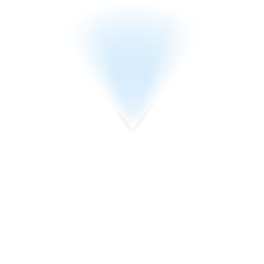
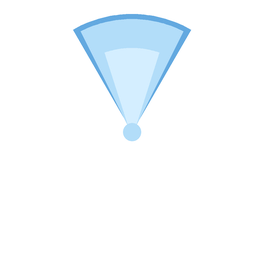
Map button: shark-finder locator (not a compass), picture badges, house chrome, hint ring with no timer; tap your panned-away shark to come back; heading beam redrawn in flat cel bands

Changed region(s): [[0.2727, 0.0303, 0.7273, 0.5455]]

diff --git a/src/components/map/FollowButton.tsx b/src/components/map/FollowButton.tsx
@@ -1,13 +1,12 @@
 import { Image } from 'expo-image';
 import { useEffect, useRef, useState, type ReactNode } from 'react';
 import { Pressable, StyleSheet, Text, View } from 'react-native';
-import Reanimated, { Easing, useAnimatedStyle, useSharedValue, withSequence, withSpring, withTiming,
+import Reanimated, { Easing, useAnimatedStyle, useSharedValue, withDelay, withRepeat, withSequence, withSpring, withTiming,
   type SharedValue } from 'react-native-reanimated';
-import Svg, { Path } from 'react-native-svg';
+import Svg, { Circle, Path } from 'react-native-svg';
 import { BRAND, SHADOW } from '../../ui';
 import type { FollowMode } from './cameraFollow';
 
-const ROSE = require('../../../assets/images/map/compass-rose.png');
 /** Panned away the button shows your own shark (its look), or Alex's Classic: "take me back to it". */
 const CLASSIC = require('../../../assets/images/map/follow-shark-classic.png');
 
@@ -16,13 +15,13 @@ export type FollowButtonState = 'away' | FollowMode;
 
 /** The words a player sees (short enough to read at a glance; tested in map-motion.test.cjs). */
 export const FOLLOW_COPY = {
-  heading: 'Map turns with you',
-  north: 'North stays up',
+  heading: 'Map spins with you',
+  north: 'Map stays still',
   away: 'Tap to find your shark',
   noCompass: 'No compass here',
-  hintTitle: 'Your compass',
-  hintBody: 'The map turns when you turn. Tap me to keep north up.',
-  hintBodyNorth: 'North stays on top. Tap me to turn the map with you.',
+  hintTitle: 'Shark finder',
+  hintBody: 'Tap me to stop the map spinning.',
+  hintBodyNorth: 'Tap me to spin the map with you.',
 } as const;
 
 type PillKey = 'heading' | 'north' | 'noCompass' | 'away';
@@ -37,8 +36,32 @@ export function shouldFlashPill(was: FollowButtonState, now: FollowButtonState):
 export function followButtonLabel(state: FollowButtonState): string {
   if (state === 'away') return 'Find your shark. The map follows you again.';
   return state === 'heading'
-    ? 'Compass: the map turns with you. Tap to keep north up.'
-    : 'Compass: north stays up. Tap to turn the map with you.';
+    ? 'Shark finder: the map spins with you. Tap to keep it still, north up.'
+    : 'Shark finder: the map stays still, north up. Tap to spin it with you.';
+}
+
+/**
+ * The button's face: a locator, not a compass (the footer already has the gold compass). A gold shark fin
+ * in a target ring; while the map turns with you, a view cone shows the way you face (up the screen).
+ * Flat fills, cel bands and navy outlines in the house style.
+ */
+function LocatorFace({ facing }: { readonly facing: boolean }) {
+  return (
+    <Svg width={44} height={44} viewBox="0 0 44 44">
+      {facing && (
+        <>
+          <Path d="M22 26 L9.5 6.5 A19 19 0 0 1 34.5 6.5 Z" fill={BRAND.skyDeep} stroke={BRAND.navy} strokeWidth={2} strokeLinejoin="round" />
+          <Path d="M22 24 L15 10.5 A13 13 0 0 1 29 10.5 Z" fill={BRAND.sky} />
+        </>
+      )}
+      <Circle cx={22} cy={28} r={11} fill={BRAND.white} stroke={BRAND.navy} strokeWidth={2.4} />
+      <Circle cx={22} cy={28} r={6.6} fill="none" stroke={BRAND.skyDeep} strokeWidth={1.8} />
+      {/* The fin: gold, a lighter cel band on its lit (left) side, a navy outline. */}
+      <Path d="M16.5 31.5 C17.5 26 20.5 21 26.5 18.5 C25 23 25.5 27.5 27.5 31.5 Z" fill={BRAND.gold} stroke={BRAND.navy} strokeWidth={2} strokeLinejoin="round" />
+      <Path d="M18.6 30 C19.4 26.4 21.4 23.2 24.2 21.4 C23.4 24.4 23.4 27.2 24.2 30 Z" fill={BRAND.goldLight} />
+      <Path d="M15 31.8 H29" stroke={BRAND.navy} strokeWidth={2.2} strokeLinecap="round" />
+    </Svg>
+  );
 }
 
 /**
@@ -75,7 +98,7 @@ export default function FollowButton({ state, bearing, onPress, reducedMotion, h
   const flashPill = (key: PillKey) => {
     setPill(key);
     if (pillTimer.current) clearTimeout(pillTimer.current);
-    pillTimer.current = setTimeout(() => setPill(null), 1800);
+    pillTimer.current = setTimeout(() => setPill(null), 2500);
   };
   useEffect(() => {
     const was = lastState.current;
@@ -85,11 +108,14 @@ export default function FollowButton({ state, bearing, onPress, reducedMotion, h
   }, [state]); // eslint-disable-line react-hooks/exhaustive-deps
   useEffect(() => { if (noCompassFlash > 0) flashPill('noCompass'); }, [noCompassFlash]); // eslint-disable-line react-hooks/exhaustive-deps
   useEffect(() => () => { if (pillTimer.current) clearTimeout(pillTimer.current); }, []);
+  // The hint stays until the first tap on the button or the map (no timer): a ring pulses round the
+  // button meanwhile, so a child who cannot read still sees "tap here".
+  const ring = useSharedValue(0);
   useEffect(() => {
-    if (!hint) return;
-    const timer = setTimeout(onHintDone, 7000);
-    return () => clearTimeout(timer);
-  }, [hint, onHintDone]);
+    if (!hint || reducedMotion) { ring.value = 0; return; }
+    ring.value = withRepeat(withSequence(withTiming(1, { duration: 900, easing: Easing.out(Easing.quad) }), withTiming(0, { duration: 0 }), withDelay(300, withTiming(0, { duration: 0 }))), -1);
+  }, [hint, reducedMotion, ring]);
+  const ringStyle = useAnimatedStyle(() => ({ opacity: ring.value > 0 ? 0.9 * (1 - ring.value) : 0, transform: [{ scale: 1 + 0.45 * ring.value }] }));
 
   // The pill fades and slides in on the UI thread, and stays mounted while it fades out.
   const [shownPill, setShownPill] = useState<PillKey | null>(null);
@@ -146,25 +172,41 @@ export default function FollowButton({ state, bearing, onPress, reducedMotion, h
         </Reanimated.View>
         </View>
       )}
+      {hint && <Reanimated.View pointerEvents="none" style={[styles.ring, ringStyle]} />}
       <Pressable onPress={tap} accessibilityRole="button" accessibilityLabel={followButtonLabel(state)} hitSlop={8}>
         <Reanimated.View style={[styles.button, state === 'north' && styles.north, state === 'away' && styles.away, buttonStyle]}>
+          <View pointerEvents="none" style={styles.gloss} />
           {state === 'away' ? (
             <Reanimated.View style={[styles.sharkBox, nudgeStyle]}>
               {awayArt ?? <Image source={CLASSIC} style={StyleSheet.absoluteFill} contentFit="contain" transition={0} />}
             </Reanimated.View>
           ) : (
-            <Reanimated.View style={[styles.rose, roseStyle]}>
-              <Image source={ROSE} style={StyleSheet.absoluteFill} contentFit="contain" transition={0} />
-            </Reanimated.View>
+            <>
+              <LocatorFace facing={state === 'heading'} />
+              {/* The red north tick rides the rim and always points at north on the map. */}
+              <Reanimated.View pointerEvents="none" style={[styles.northRing, roseStyle]}>
+                <Svg width={54} height={54} viewBox="0 0 54 54">
+                  <Path d="M27 1.5 L31.5 9.5 L22.5 9.5 Z" fill={BRAND.red} stroke={BRAND.navy} strokeWidth={1.6} strokeLinejoin="round" />
+                </Svg>
+              </Reanimated.View>
+            </>
           )}
           {state !== 'away' && (
             <Reanimated.View style={[styles.badge, state === 'north' ? styles.badgeNorth : styles.badgeHeading, badgeStyle]}>
-              {state === 'north' ? <Text style={styles.badgeN}>N</Text> : (
-                // The beam under your shark, in small: "the map follows where you face".
-                // A turning arrow: "the map turns".
+              {state === 'north' ? (
+                // A padlock: the map is locked still.
                 <Svg width={16} height={16} viewBox="0 0 16 16">
-                  <Path d="M13.2 8.6 A5.3 5.3 0 1 1 10.6 3.6" stroke={BRAND.white} strokeWidth={2.4} fill="none" strokeLinecap="round" />
-                  <Path d="M9.2 0.9 L13.6 3.4 L9.6 6.6 Z" fill={BRAND.white} />
+                  <Path d="M5 7.2 V5.2 a3 3 0 0 1 6 0 V7.2" stroke={BRAND.white} strokeWidth={2.2} fill="none" strokeLinecap="round" />
+                  <Path d="M3.2 7.2 H12.8 V14 H3.2 Z" fill={BRAND.white} stroke={BRAND.white} strokeWidth={1} strokeLinejoin="round" />
+                  <Circle cx={8} cy={10.5} r={1.3} fill={BRAND.navy} />
+                </Svg>
+              ) : (
+                // Two curved arrows chasing each other: the map spins with you.
+                <Svg width={17} height={17} viewBox="0 0 17 17">
+                  <Path d="M3 7.2 A5.6 5.6 0 0 1 12.6 4" stroke={BRAND.white} strokeWidth={2.6} fill="none" strokeLinecap="round" />
+                  <Path d="M14.6 1.2 L14.8 6.4 L9.8 5.4 Z" fill={BRAND.white} stroke={BRAND.white} strokeWidth={1} strokeLinejoin="round" />
+                  <Path d="M14 9.8 A5.6 5.6 0 0 1 4.4 13" stroke={BRAND.white} strokeWidth={2.6} fill="none" strokeLinecap="round" />
+                  <Path d="M2.4 15.8 L2.2 10.6 L7.2 11.6 Z" fill={BRAND.white} stroke={BRAND.white} strokeWidth={1} strokeLinejoin="round" />
                 </Svg>
               )}
             </Reanimated.View>
@@ -177,17 +219,19 @@ export default function FollowButton({ state, bearing, onPress, reducedMotion, h
 
 const styles = StyleSheet.create({
   wrap: { width: 54, height: 54 },
+  // House button chrome: a thick navy outline, a lighter inner ring, a lip underneath.
   button: { width: 54, height: 54, borderRadius: 27, alignItems: 'center', justifyContent: 'center',
-    backgroundColor: BRAND.blueBright, borderWidth: 3, borderColor: BRAND.white, ...SHADOW.card },
-  north: { backgroundColor: BRAND.white, borderColor: BRAND.navy },
-  away: { backgroundColor: BRAND.gold },
-  rose: { width: 40, height: 40 },
-  sharkBox: { width: 44, height: 44, marginTop: 4 },
-  badge: { position: 'absolute', right: -7, bottom: -7, width: 26, height: 26, borderRadius: 13, borderWidth: 2.5,
-    borderColor: BRAND.white, alignItems: 'center', justifyContent: 'center' },
+    backgroundColor: BRAND.blueBright, borderWidth: 4.5, borderColor: BRAND.navy, borderBottomWidth: 6.5, ...SHADOW.card },
+  north: { backgroundColor: BRAND.cream },
+  away: { backgroundColor: BRAND.gold, borderBottomColor: BRAND.navy },
+  ring: { position: 'absolute', left: 0, top: 0, width: 54, height: 54, borderRadius: 27, borderWidth: 4, borderColor: BRAND.gold },
+  northRing: { position: 'absolute', left: -4.5, top: -4.5, width: 54, height: 54 },
+  gloss: { position: 'absolute', left: 8, top: 4, width: 22, height: 9, borderRadius: 6, backgroundColor: 'rgba(255,255,255,0.45)', transform: [{ rotate: '-18deg' }] },
+  sharkBox: { width: 40, height: 40 },
+  badge: { position: 'absolute', right: -10, bottom: -10, width: 26, height: 26, borderRadius: 13, borderWidth: 2.5,
+    borderColor: BRAND.navy, alignItems: 'center', justifyContent: 'center' },
   badgeHeading: { backgroundColor: BRAND.blue },
   badgeNorth: { backgroundColor: BRAND.navy },
-  badgeN: { fontFamily: 'Shark', fontSize: 15, lineHeight: 17, color: BRAND.white, marginTop: 1 },
   pillLane: { position: 'absolute', right: 64, top: 0, width: 240, alignItems: 'flex-end' },
   pill: { marginTop: 11, height: 32, paddingHorizontal: 12, borderRadius: 16,
     backgroundColor: BRAND.white, borderWidth: 2.5, borderColor: BRAND.navy, justifyContent: 'center', ...SHADOW.card },

diff --git a/src/components/Map.tsx b/src/components/Map.tsx
@@ -88,6 +88,11 @@ const BEAM_PT = 176;
  * 52 x 60 above this point) already assumed it.
  */
 const SHARK_GROUND = { x: 50, y: 100 } as const;
+/** A tap at `tap` lands on the panned-away shark standing at `ground` (its body sits above the ground point). */
+export function sharkHit(ground: readonly [number, number], tap: readonly [number, number]): boolean {
+  const dx = tap[0] - ground[0], dy = tap[1] - ground[1];
+  return Math.abs(dx) <= 42 && dy >= -104 && dy <= 14;
+}
 /**
  * The following shark's footprint for the declutter (from its ground point): the 60 pt art with
  * its idle bob, a hop, the fin and worn pieces on top (a hat, a jetpack). Cards and chips keep out.
@@ -845,9 +850,16 @@ export default function Map({ children, onPress, focusCoordinate, controlsTop = 
             cam.recenter(followZoomRef.current);
           }
         }}
-        onPress={() => {
+        onPress={(feature: { properties?: { [k: string]: unknown } | null }) => {
           // Any tap on the map closes the compass hint.
           if (compassHint.visible) compassHint.dismiss();
+          // Panned away: a tap on your own shark does a trick and brings the map back to it.
+          const sx = Number(feature?.properties?.screenPointX), sy = Number(feature?.properties?.screenPointY);
+          if (!focusedOnPlayer && location && playerOnScreen && Number.isFinite(sx) && Number.isFinite(sy)) {
+            void mapViewRef.current?.getPointInView([location.longitude, location.latitude]).then(pt => {
+              if (pt && sharkHit(pt as [number, number], [sx as number, sy as number])) { onSharkTap(); recenterOnPlayer(); }
+            }).catch(() => undefined);
+          }
           onPress?.();
         }}
       >

diff --git a/src/services/help/helpTopics.ts b/src/services/help/helpTopics.ts
@@ -107,8 +107,8 @@ export interface TipCopy { readonly title: string; readonly body: string }
 
 /** One line each. Finn says these once, at the moment they happen. */
 export const TIP_COPY: Readonly<Record<Exclude<TipId, `game:${string}`>, TipCopy>> = {
-  // The map's compass (FollowButton draws its own bubble from FOLLOW_COPY; this is the record).
-  map_compass: { title: 'Your compass', body: 'The map turns as you turn. Tap to keep north up.' },
+  // The map's shark finder button (FollowButton draws its own bubble from FOLLOW_COPY; this is the record).
+  map_compass: { title: 'Shark finder', body: 'The map spins with you. Tap to keep it still.' },
   park_hud: { title: 'You\'re at the park!',
     body: 'Ride coins wait at the rides. Tap a number up top to learn about it. Tap your shark to see your shelf.' },
   coin_in_range: { title: 'A ride coin is in range',
